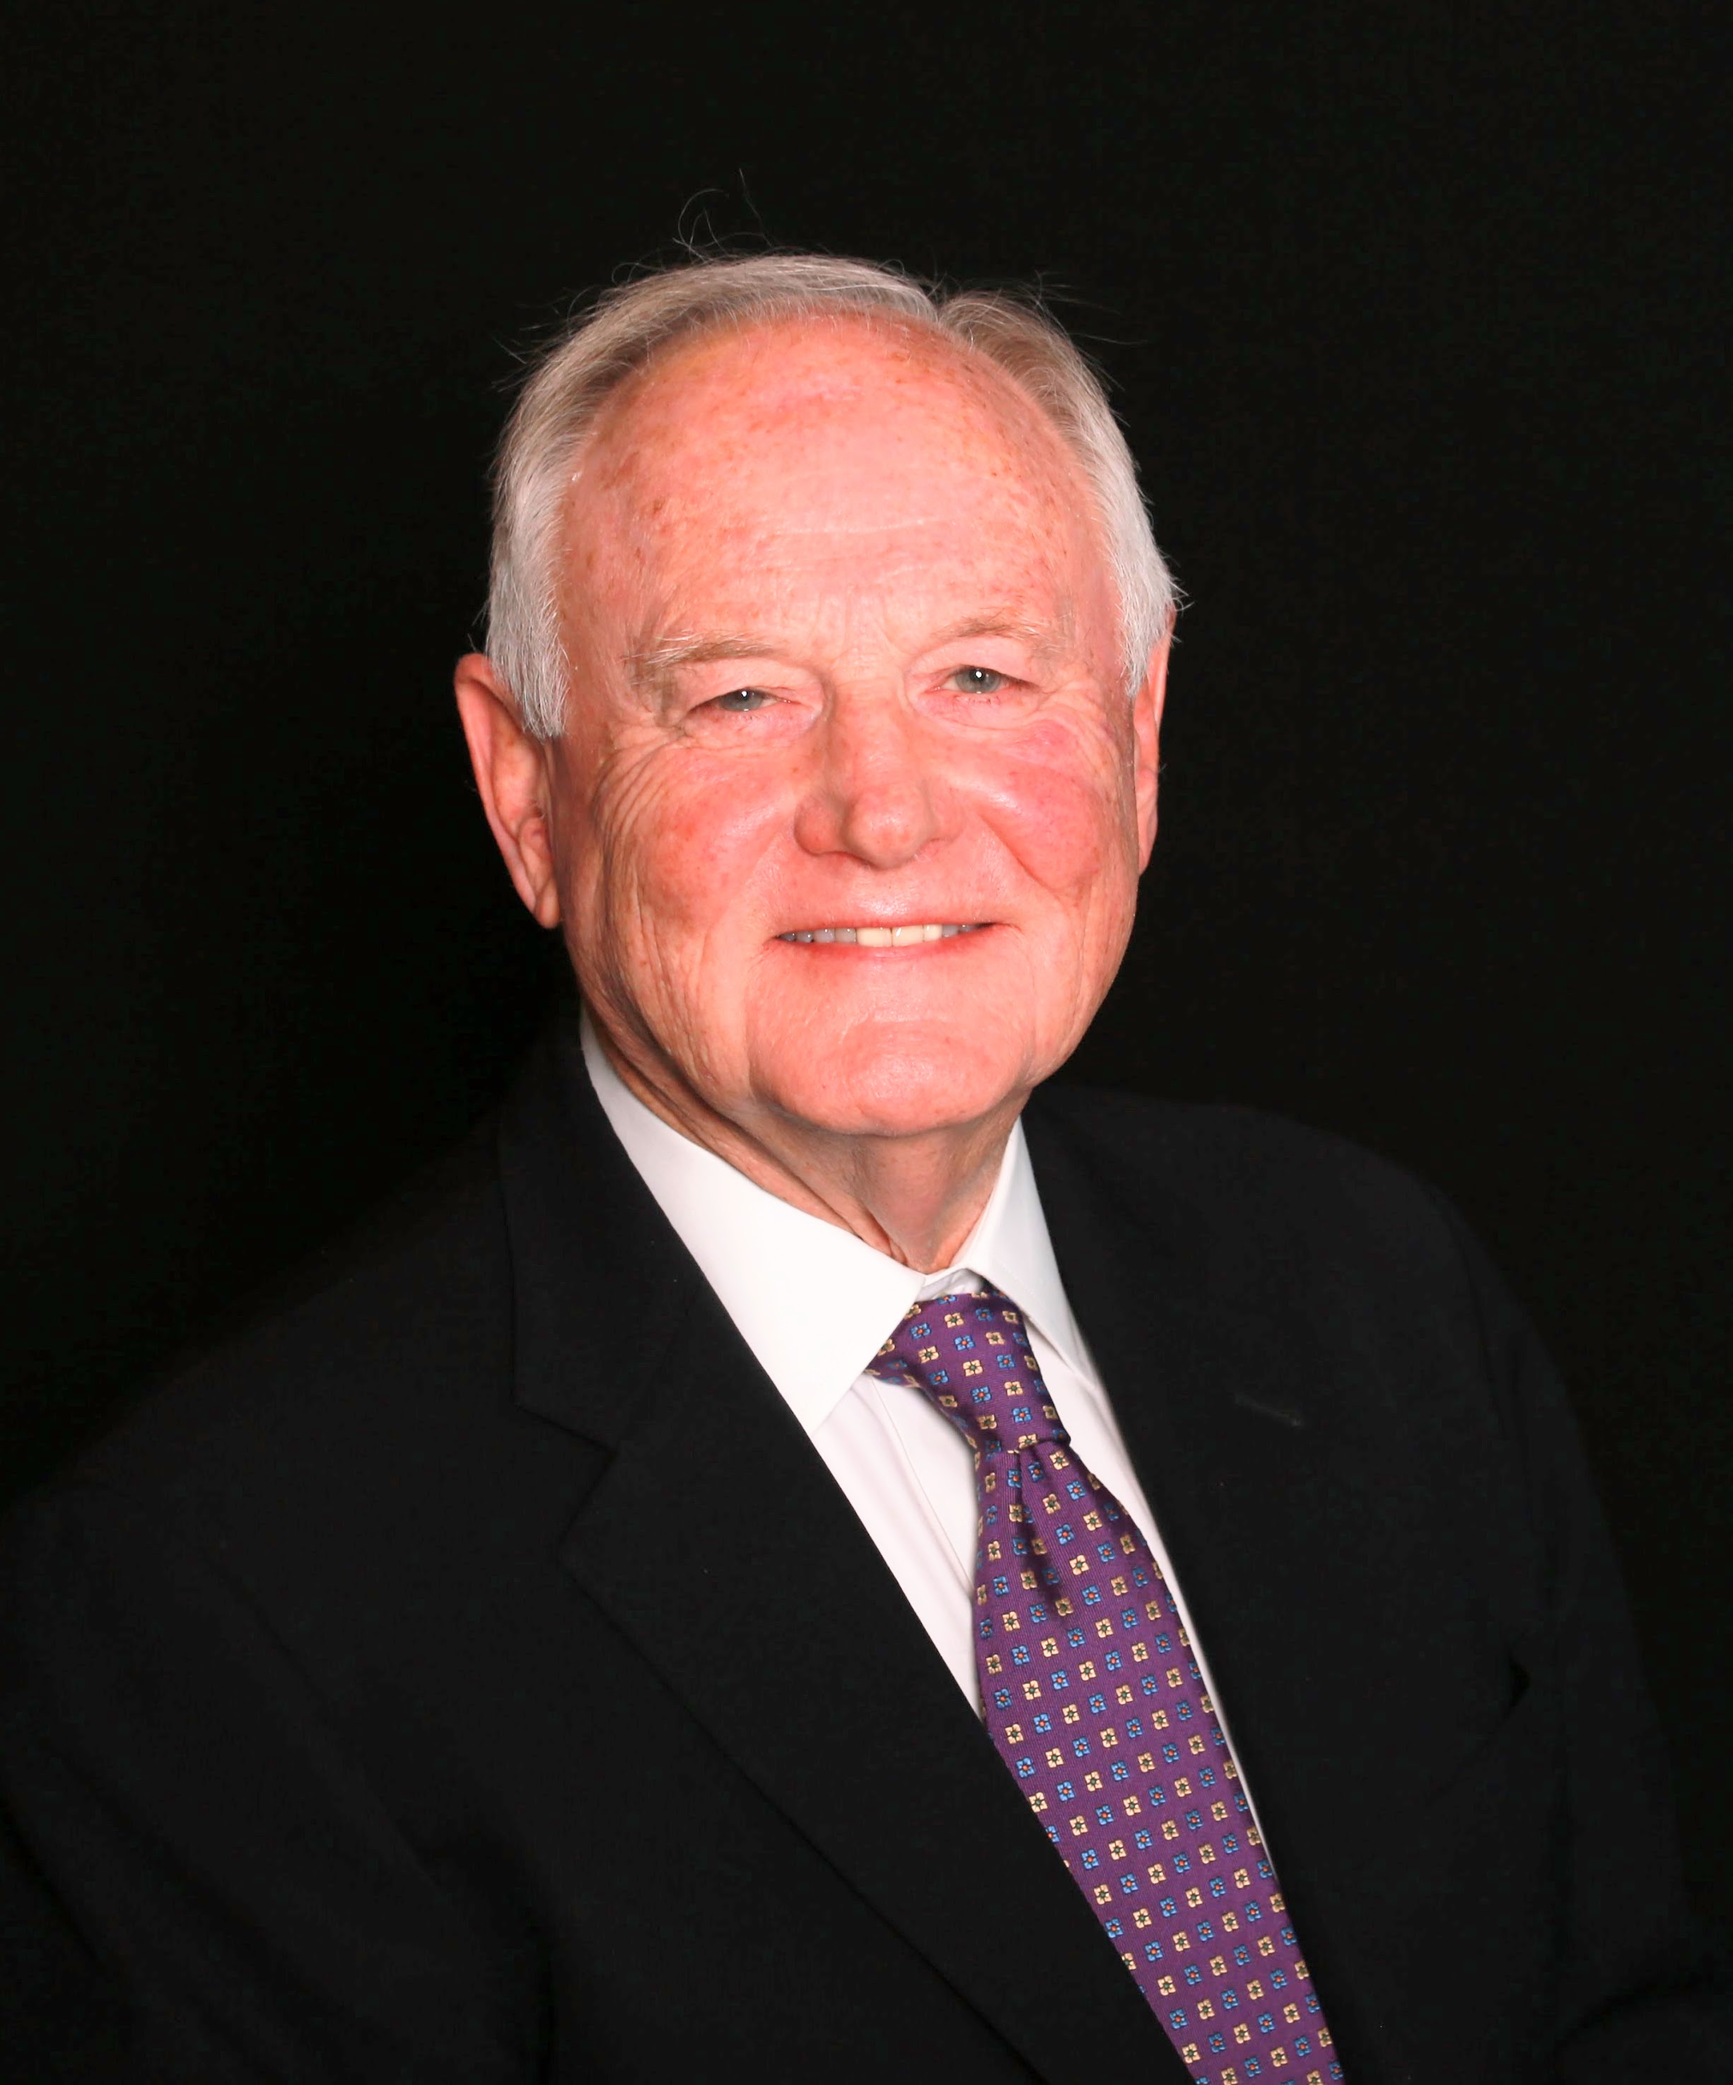
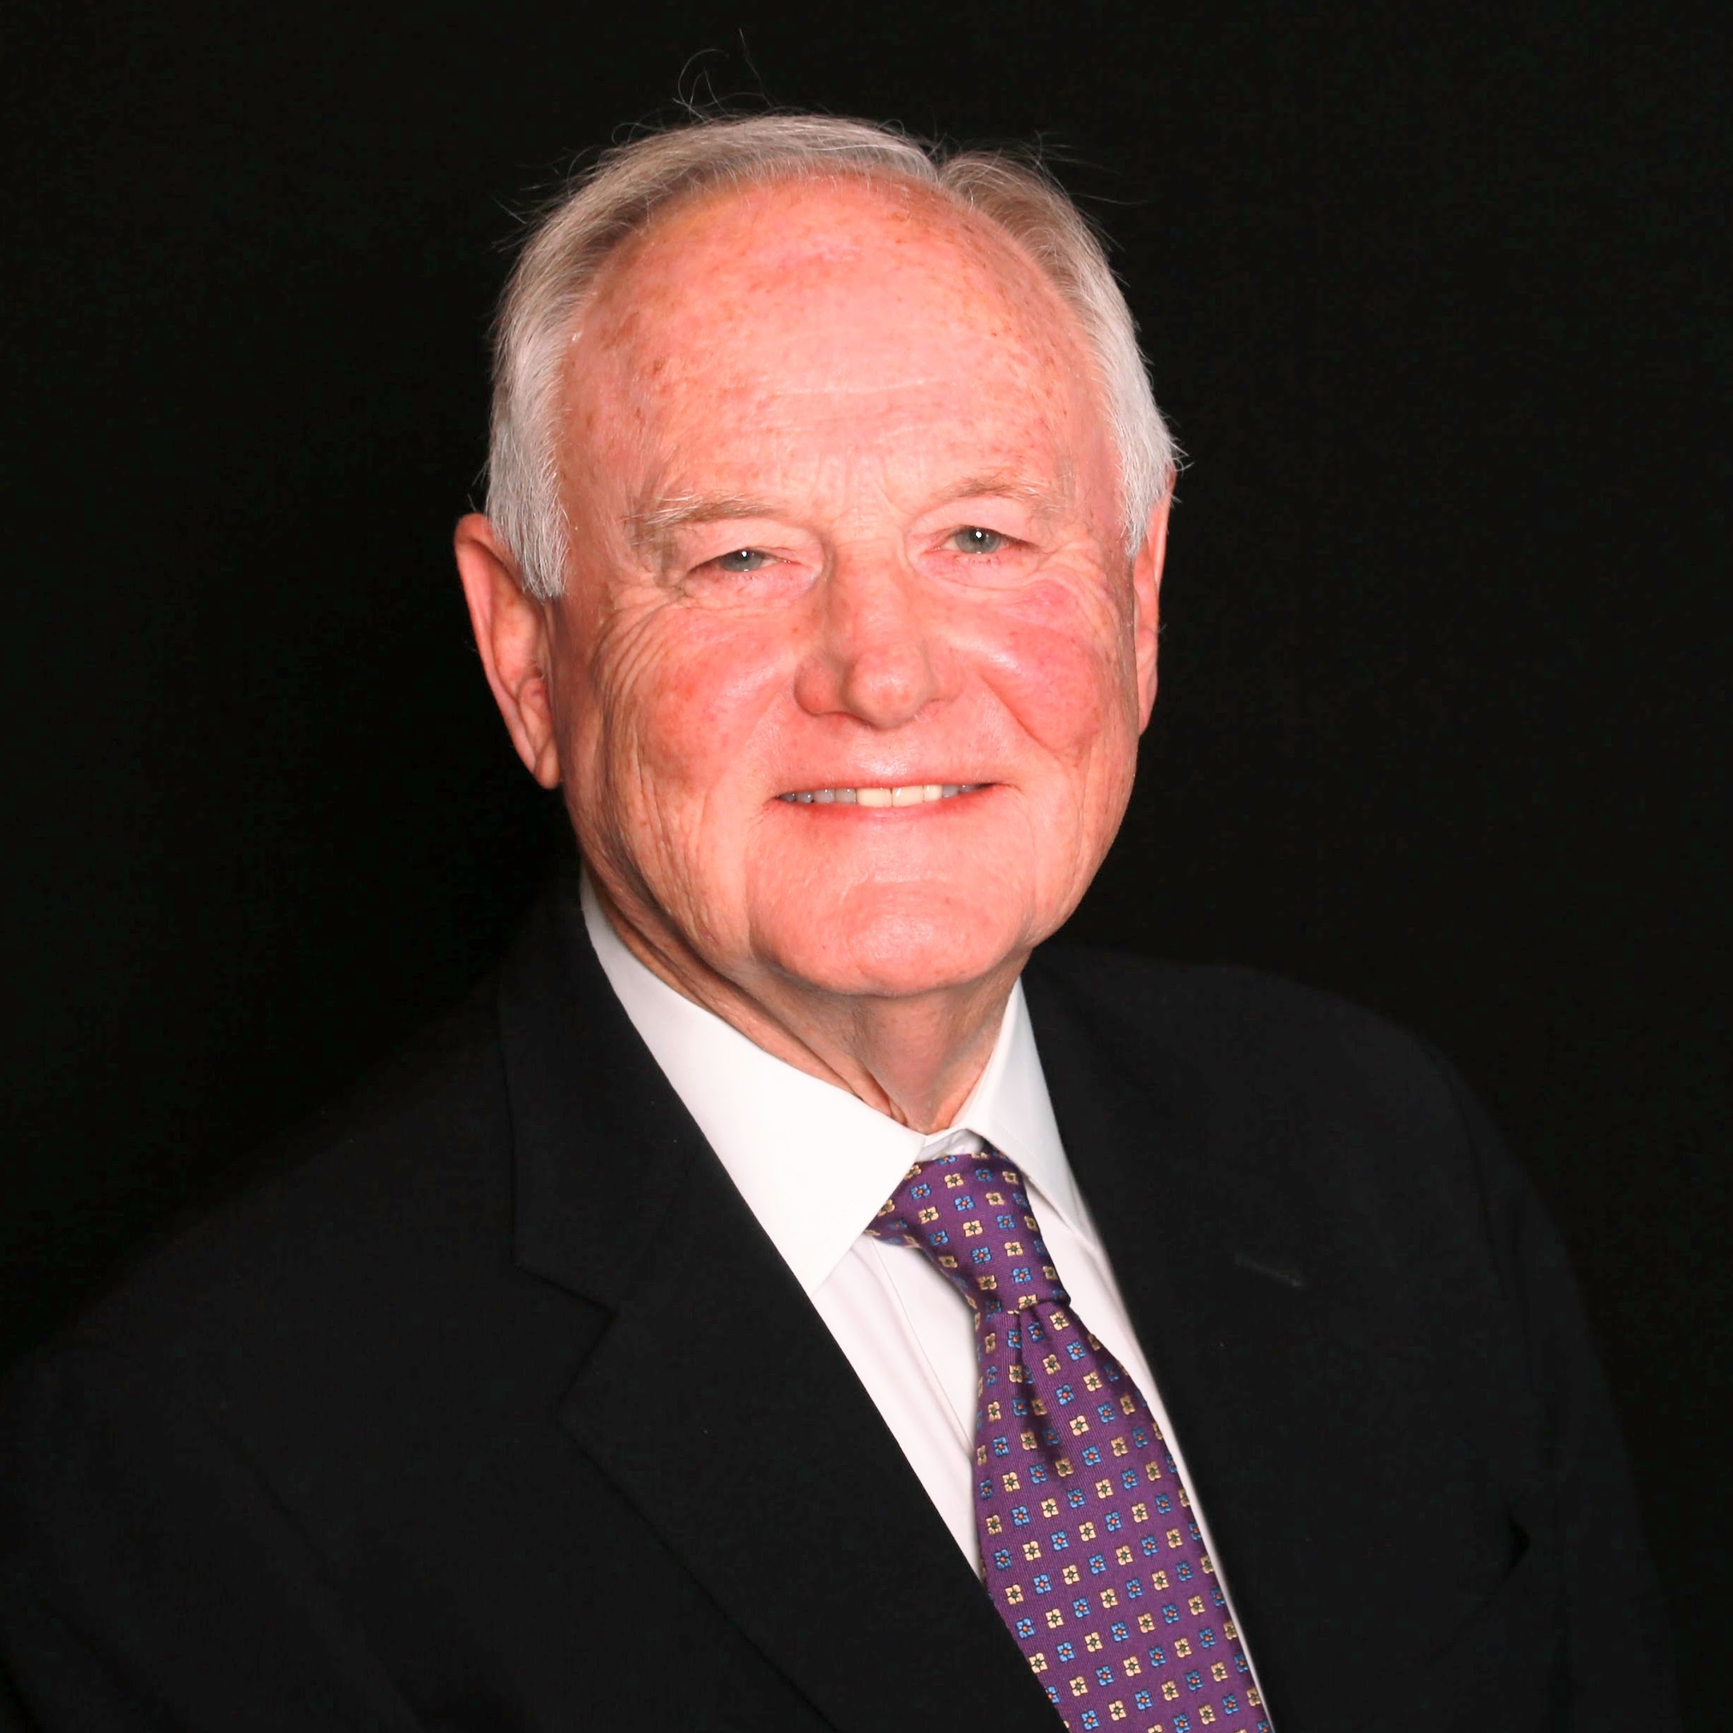
Make all team members photos square

Changed region(s): [[0.2791, 0.4031, 0.7752, 1.0], [0.2481, 0.062, 0.6822, 0.4031], [0.5891, 0.4031, 0.6202, 0.4341]]

diff --git a/src/assets/images/index.ts b/src/assets/images/index.ts
@@ -1,40 +1,40 @@
 // COMPANIES
-export {default as VOSB} from '../images/veterans/VOSB.png'
-export {default as Veteran} from '../images/veterans/Veterans.jpg'
+export { default as VOSB } from '../images/veterans/VOSB.png';
+export { default as Veteran } from '../images/veterans/Veterans.jpg';
 
 // TEAM
-export {default as BillReffett} from '../images/team/BillReffett.jpg'
-export {default as EricReffett} from '../images/team/EricReffett.jpg'
-export {default as GlennLesniak} from '../images/team/GlennLesniak.jpg'
-export {default as KernGilette} from '../images/team/KernGillette.jpeg'
-export {default as LizzyShaw} from '../images/team/LizzyShaw.jpg'
-export {default as MargaretGottlieb} from '../images/team/MargaretGottlieb.png'
-export {default as MarshallReffett} from '../images/team/MarshallReffett.jpg'
-export {default as MindeePrichard} from '../images/team/MindeePrichard.png'
-export {default as NancyHoffman} from '../images/team/NancyHoffman.jpg'
-export {default as SamMayberry} from '../images/team/SamMayberry.jpg'
-export {default as TimGeriak} from '../images/team/TimGeriak.jpg'
-export {default as TomYoung} from '../images/team/TomYoung.png'
+export { default as BillReffett } from '../images/team/BillReffett.jpg';
+export { default as EricReffett } from '../images/team/EricReffett.jpg';
+export { default as GlennLesniak } from '../images/team/GlennLesniak.jpg';
+export { default as KernGilette } from '../images/team/KernGillette.jpg';
+export { default as LizzyShaw } from '../images/team/LizzyShaw.jpg';
+export { default as MargaretGottlieb } from '../images/team/MargaretGottlieb.png';
+export { default as MarshallReffett } from '../images/team/MarshallReffett.jpg';
+export { default as MindeePrichard } from '../images/team/MindeePrichard.png';
+export { default as NancyHoffman } from '../images/team/NancyHoffman.jpg';
+export { default as SamMayberry } from '../images/team/SamMayberry.jpg';
+export { default as TimGeriak } from '../images/team/TimGeriak.jpg';
+export { default as TomYoung } from '../images/team/TomYoung.png';
 
 // RECRUITMENTS
-export {default as BartellRecruitment} from '../images/recruitments/Bartell Drugs.png'
+export { default as BartellRecruitment } from '../images/recruitments/Bartell Drugs.png';
 
 // EXPERTISE
-export {default as ExecutiveSearchStock} from '../images/expertise/ExecutiveSearchStock.jpg'
-export {default as HandshakeStock} from '../images/expertise/HandshakeStock.jpg'
+export { default as ExecutiveSearchStock } from '../images/expertise/ExecutiveSearchStock.jpg';
+export { default as HandshakeStock } from '../images/expertise/HandshakeStock.jpg';
 
 // BANNERS
-export {default as GovernmentContractingBanner} from '../images/companies/Government/government.jpg'
-export {default as ManufacturingBanner} from '../images/companies/Manufacturing/manufactoringbig.jpg'
-export {default as NonProfitBanner} from '../images/companies/NonProfits/nonprofitbigpuz.jpg'
-export {default as PrivateSectorBanner} from '../images/companies/PrivateSector/privateequitybig.jpg'
-export {default as PublicSectorBanner} from '../images/companies/PublicSector/publicsectorbig.jpg'
-export {default as RetailBanner} from '../images/companies/Retail/retailbig.jpg'
-export {default as AboutBanner} from '../images/banners/AboutBanner.jpg'
-export {default as ContactBanner} from '../images/banners/ContactBanner.jpg'
-export {default as ExpertiseBanner} from '../images/banners/ExpertiseBanner.jpg'
-export {default as NewsBanner} from '../images/banners/NewsBanner.jpg'
+export { default as GovernmentContractingBanner } from '../images/companies/Government/government.jpg';
+export { default as ManufacturingBanner } from '../images/companies/Manufacturing/manufactoringbig.jpg';
+export { default as NonProfitBanner } from '../images/companies/NonProfits/nonprofitbigpuz.jpg';
+export { default as PrivateSectorBanner } from '../images/companies/PrivateSector/privateequitybig.jpg';
+export { default as PublicSectorBanner } from '../images/companies/PublicSector/publicsectorbig.jpg';
+export { default as RetailBanner } from '../images/companies/Retail/retailbig.jpg';
+export { default as AboutBanner } from '../images/banners/AboutBanner.jpg';
+export { default as ContactBanner } from '../images/banners/ContactBanner.jpg';
+export { default as ExpertiseBanner } from '../images/banners/ExpertiseBanner.jpg';
+export { default as NewsBanner } from '../images/banners/NewsBanner.jpg';
 
 // INSIGHTS
-export {default as ExternalNewsImage} from '../images/insights/externalNews.jpg'
-export {default as InternalNewsImage} from '../images/insights/internalNews.jpg'
+export { default as ExternalNewsImage } from '../images/insights/externalNews.jpg';
+export { default as InternalNewsImage } from '../images/insights/internalNews.jpg';

diff --git a/src/components/About/Team/Team.tsx b/src/components/About/Team/Team.tsx
@@ -1,4 +1,4 @@
-import "@mantine/core/styles.css";
+import '@mantine/core/styles.css';
 import {
   Image,
   Text,
@@ -8,11 +8,11 @@ import {
   Group,
   Title,
   Grid,
-} from "@mantine/core";
-import { raTeam } from "./teamHelperFunctions";
-import { Link } from "react-router-dom";
-import { Banner } from "../../Banner";
-import { AboutBanner } from "../../../assets/images";
+} from '@mantine/core';
+import { raTeam } from './teamHelperFunctions';
+import { Link } from 'react-router-dom';
+import { Banner } from '../../Banner';
+import { AboutBanner } from '../../../assets/images';
 
 export interface RaTeamInfo {
   name: string;
@@ -28,12 +28,12 @@ export interface RaTeamInfo {
 export const Team: React.FC = () => {
   return (
     <>
-      <Banner bannerImagePath={AboutBanner} page={"Our Team"} />
-      <Container size={"45%"}>
-        <Title order={2} style={{ textAlign: "center" }}>
+      <Banner bannerImagePath={AboutBanner} page={'Our Team'} />
+      <Container size={'45%'}>
+        <Title order={2} style={{ textAlign: 'center' }}>
           Experienced, Professional, & Invested In Your Goals
         </Title>
-        <Text pt={"1rem"} size="lg">
+        <Text pt={'1rem'} size="lg">
           Our team of experienced and trusted executive search experts are
           dedicated to providing our clients and candidates the best possible
           recruitment experience possible. Every search is an opportunity to
@@ -47,25 +47,19 @@ export const Team: React.FC = () => {
                   <Image
                     src={teamMember.image}
                     fit="fill"
-                    height={320}
                     alt={teamMember.name}
                   />
                 </Card.Section>
                 <Group
                   mt="md"
                   gap={0}
-                  style={{ flexDirection: "column", alignItems: "start" }}
+                  style={{ flexDirection: 'column', alignItems: 'start' }}
                 >
                   <Text fw={700}>{teamMember.name}</Text>
                   <Text fw={500}>{teamMember.title}</Text>
                   <Text size="sm" c="dimmed">
                     {teamMember.location}
                   </Text>
-                  {teamMember.email && (
-                    <Text size="sm" c="dimmed">
-                      {teamMember.email}
-                    </Text>
-                  )}
                 </Group>
                 <Link to={teamMember.link}>
                   <Button color="blue" fullWidth mt="md" radius="md">

diff --git a/src/components/About/Team/TeamMember.tsx b/src/components/About/Team/TeamMember.tsx
@@ -1,28 +1,33 @@
-import "@mantine/core/styles.css";
-import { Image, Title, Text, Container, Grid } from "@mantine/core";
-import { getTeamMember } from "./teamHelperFunctions";
-import { useParams } from "react-router-dom";
-import { RaTeamInfo } from "./Team";
+import '@mantine/core/styles.css';
+import { Image, Title, Text, Container, Grid } from '@mantine/core';
+import { getTeamMember } from './teamHelperFunctions';
+import { useParams } from 'react-router-dom';
+import { RaTeamInfo } from './Team';
+import { useEffect } from 'react';
 
 export const TeamMember: React.FC = () => {
   const { teamMember } = useParams();
   const employeeDescriptions = getTeamMember(teamMember) as RaTeamInfo;
 
+  useEffect(() => {
+    window.scrollTo(0, 0);
+  }, []);
+
   return (
-    <Container size={"60%"}>
-      <Grid display={"flex"} align="center" justify="center">
+    <Container size={'60%'}>
+      <Grid display={'flex'} align="center" justify="center">
         <Grid.Col span={5}>
           <Image fit="contain" src={employeeDescriptions.image} />
         </Grid.Col>
         <Grid.Col span={7}>
-          <Title order={2} style={{ textAlign: "center" }}>
+          <Title order={2} style={{ textAlign: 'center' }}>
             {employeeDescriptions.name}
           </Title>
-          <Title order={4} style={{ textAlign: "center" }} c={"dimmed"}>
+          <Title order={4} style={{ textAlign: 'center' }} c={'dimmed'}>
             {employeeDescriptions.title}
           </Title>
           {employeeDescriptions.description.map((line) => (
-            <Text pt={"1rem"} size="lg" style={{ whiteSpace: "pre-wrap" }}>
+            <Text pt={'1rem'} size="lg" style={{ whiteSpace: 'pre-wrap' }}>
               {line}
             </Text>
           ))}
